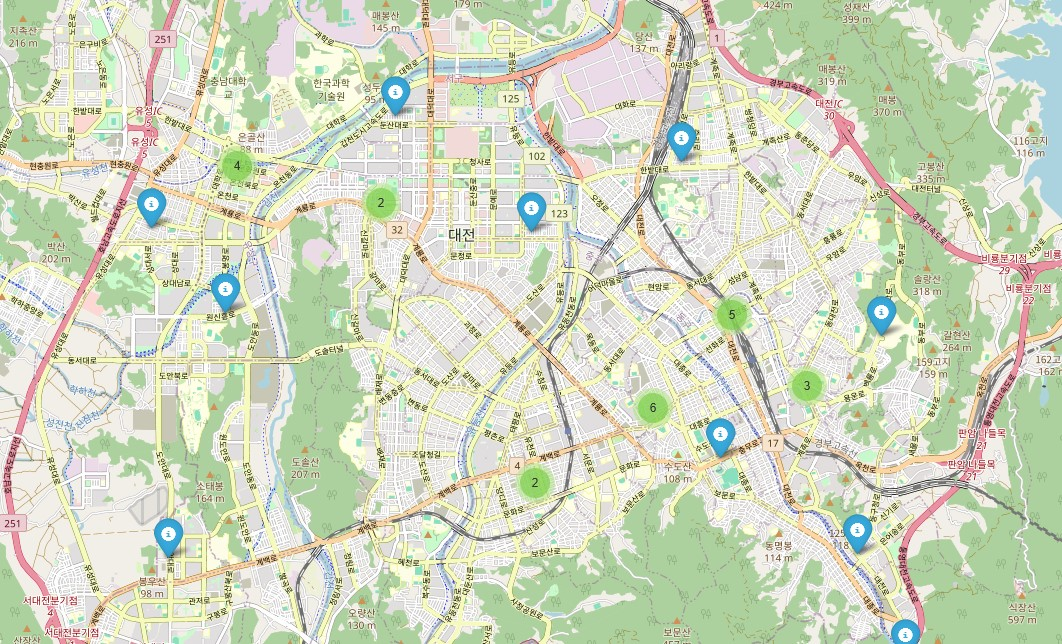
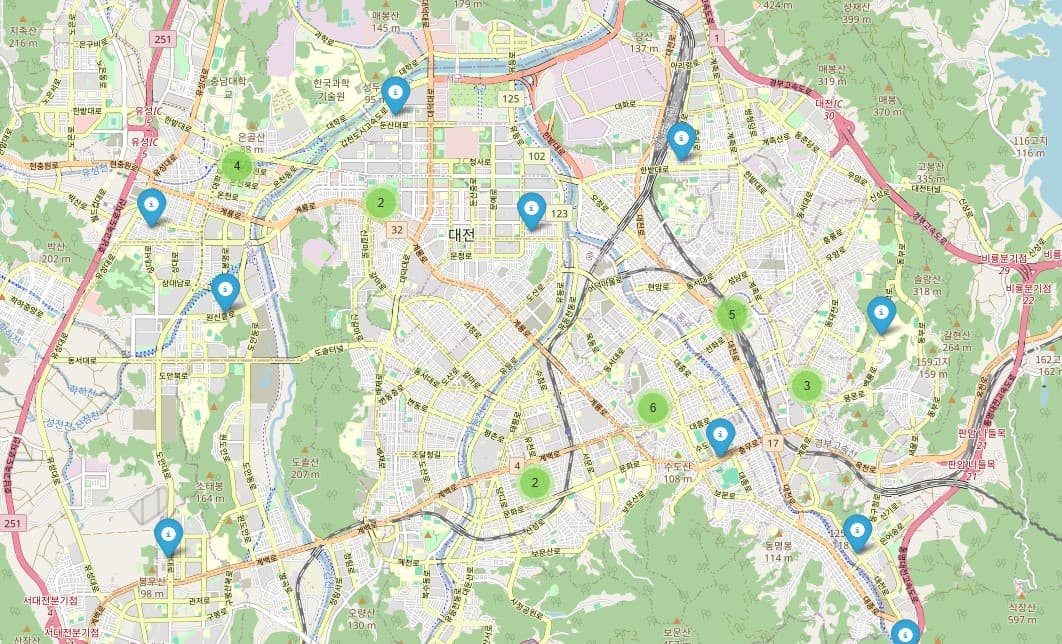
:lipstick: jpg이미지로 변경

diff --git a/my_home/src/pages/stem.jsx b/my_home/src/pages/stem.jsx
@@ -47,9 +47,9 @@ function Stem() {
           {/* 소셜 링크 (이메일은 mailto) */}
           <div className="social-links">
             <div>
-              <a href="mailto:jojayeon6152@gmail.com"><img src="/images/git.png" alt="Email" /></a>
+              <a href="mailto:jojayeon6152@gmail.com"><img src="/images/git.jpg" alt="Email" /></a>
             </div>
-            <a href="https://github.com/jojayeon"><img src="/images/mail.png" alt="GitHub" /></a>
+            <a href="https://github.com/jojayeon"><img src="/images/mail.jpg" alt="GitHub" /></a>
             <a href="https://www.notion.so/1c74d9dd132680a6b8f8df9e76f20291"><img src="/images/notion.jpg" alt="Notion" /></a>
           </div>
         </div>

diff --git a/my_home/src/styles/nature.css b/my_home/src/styles/nature.css
@@ -5,7 +5,7 @@
   justify-content: top;
   height: 100vh;
   text-align: center;
-  background: url('../../public/images/nature_bg.png') no-repeat center center fixed;
+  background: url('../../public/images/nature_bg.jpg') no-repeat center center fixed;
   background-size: cover;
 }
 .nature-container h1 {

diff --git a/my_home/src/styles/leaf.css b/my_home/src/styles/leaf.css
@@ -7,7 +7,7 @@
   min-height: 95vh;
   text-align: center;
   width: 100vw;
-  background: url('../../public/images/leaf_bg3.png') no-repeat center center fixed;
+  background: url('../../public/images/leaf_bg3.jpg') no-repeat center center fixed;
   background-size: cover;
   overflow: visible;
 }

diff --git a/my_home/src/styles/start.css b/my_home/src/styles/start.css
@@ -1,5 +1,5 @@
 .home-wrapper {
-  background: url('../../public/images/start_bg.png') no-repeat center center fixed;
+  background: url('../../public/images/start_bg.jpg') no-repeat center center fixed;
   background-size: cover;
   color: white;
   text-align: center;
